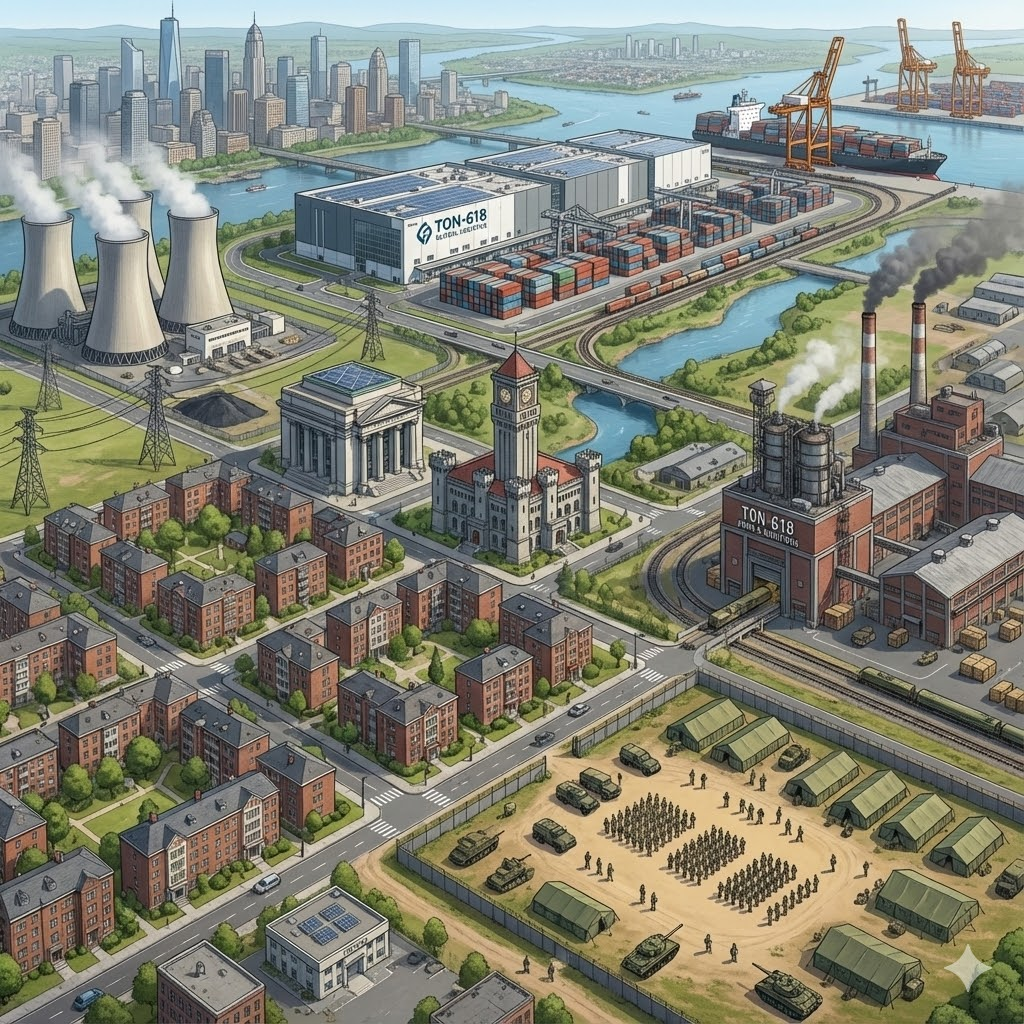
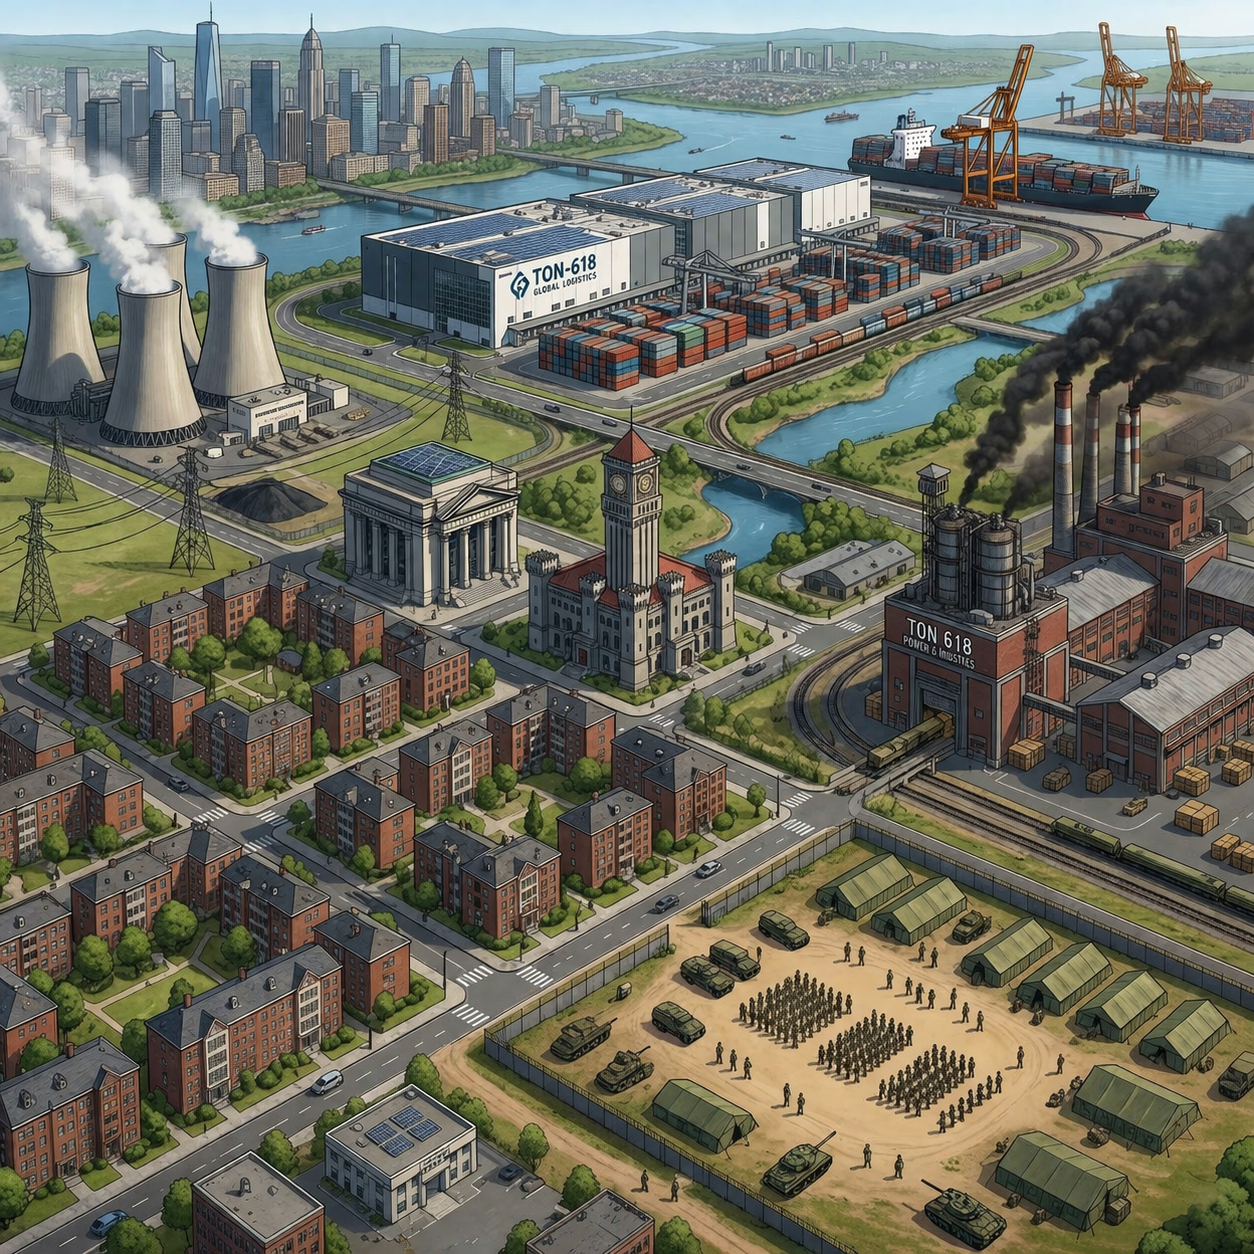
minor changes. City view and readme

diff --git a/README.md b/README.md
@@ -21,27 +21,36 @@ A multiplayer real-time strategy game inspired by browser-based strategy games l
 1. Clone the repo and install dependencies:
 
 ```bash
-cd server
-npm install
+cd server && npm install
+cd ../client && npm install
 ```
 
-2. Copy and configure environment variables:
+2. Copy and configure environment variables (`.env` trebuie să fie în `server/`):
 
 ```bash
-cp .env.example .env
+cp server/.env.example server/.env
 ```
+
+Edit `server/.env` and fill in `DATABASE_URL`, `JWT_SECRET`, etc.
 
 3. Run database migrations:
 
 ```bash
+cd server
 npx prisma migrate dev
 ```
 
-4. Start the development server:
+4. Start the development server and client (two terminals):
 
 ```bash
-npm run dev
+# Terminal 1 - server
+cd server && npm run dev
+
+# Terminal 2 - client
+cd client && npm run dev
 ```
+
+Client runs on `http://localhost:5173`. Server runs on `http://localhost:3000`.
 
 ## Environment Variables
 